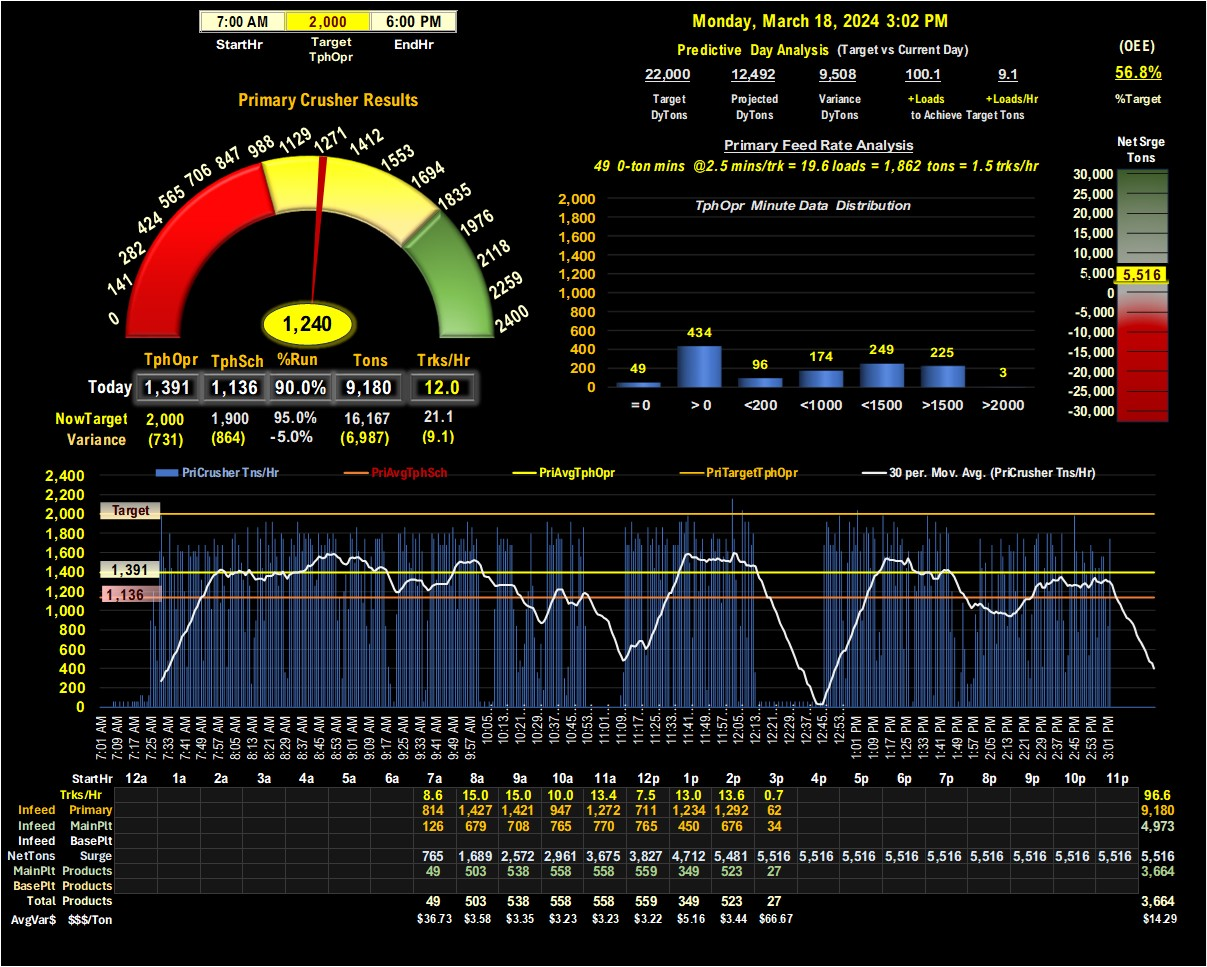
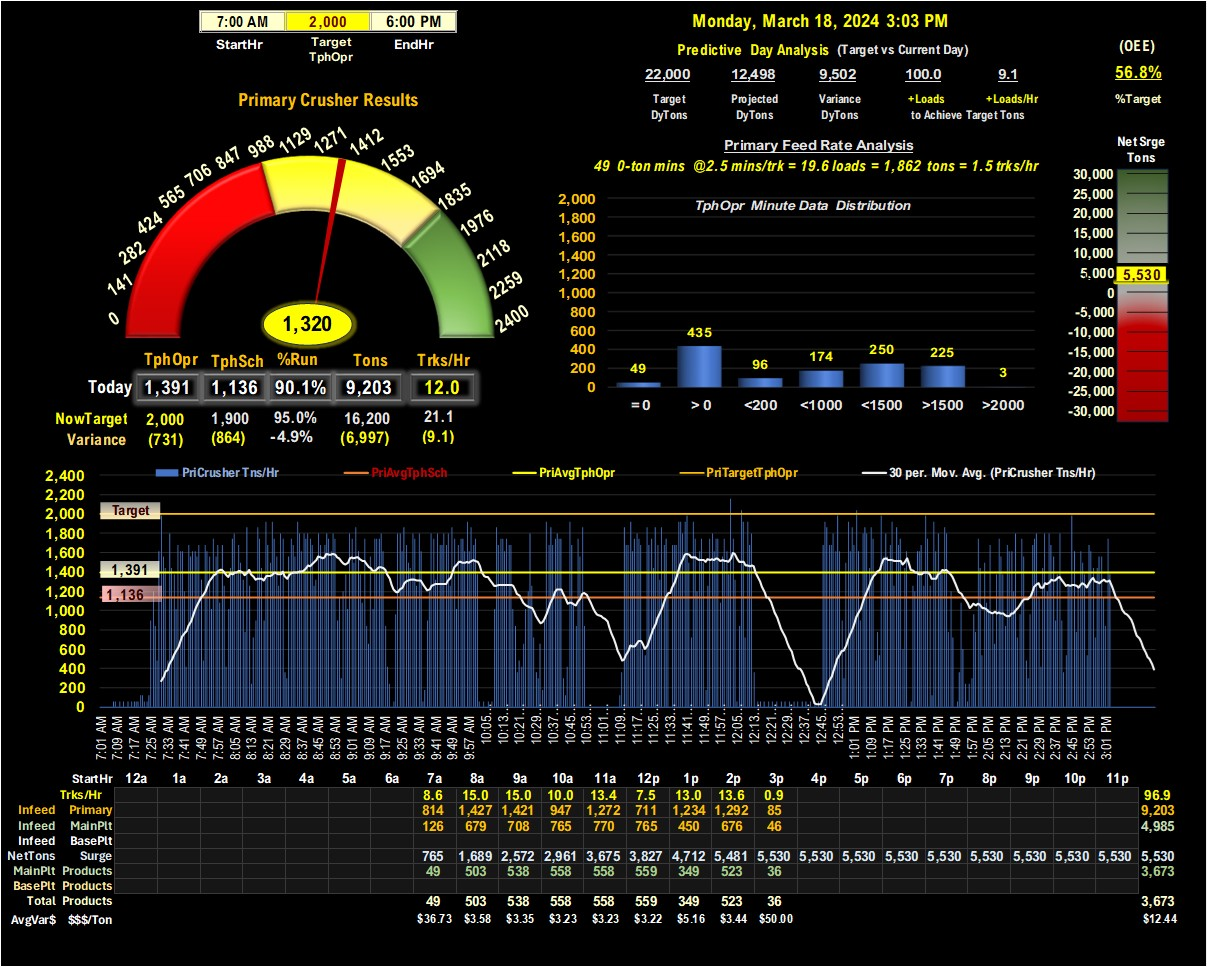
new commit

diff --git a/ColLSPri1.py b/ColLSPri1.py
@@ -1,7 +1,8 @@
 from PIL import Image
 import streamlit as st
 import threading
-import time  # Import the time module
+import time
+
 
 # Set Page Configuration
 st.set_page_config(layout="wide", initial_sidebar_state="collapsed")
@@ -39,25 +40,27 @@ st.markdown("""
 image_path = "ColLSPri.jpg"
 image = Image.open(image_path)
 
-def your_function_to_update():
-    global image  # Declare image as global
+def your_function_to_update(image_container):
     # Refresh the image
-    image = Image.open(image_path)
-    st.image(image, use_column_width=True)
+    new_image = Image.open(image_path)
+    image_container.image(new_image, use_column_width=True)
 
-def rerun_thread():
+def rerun_thread(image_container):
     while True:  # Run indefinitely
         # Sleep for 60 seconds
         time.sleep(60)
-        # Rerun the streamlit app
-        your_function_to_update()
+        # Rerun the update function
+        your_function_to_update(image_container)
 
 def main():
     # Display the image to automatically resize with the column width
-    st.image(image, use_column_width=True)
+    image_container = st.empty()
+    image_container.image(image, use_column_width=True)
 
-    # Start a thread to rerun the app after 60 seconds
-    threading.Thread(target=rerun_thread, daemon=True).start()
+    # Start a thread to rerun the update function after 60 seconds
+    threading.Thread(target=rerun_thread, args=(image_container,), daemon=True).start()
 
 if __name__ == '__main__':
     main()
+
+
